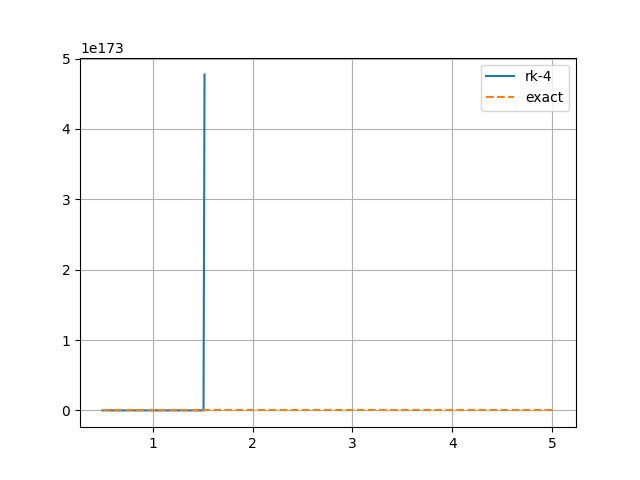
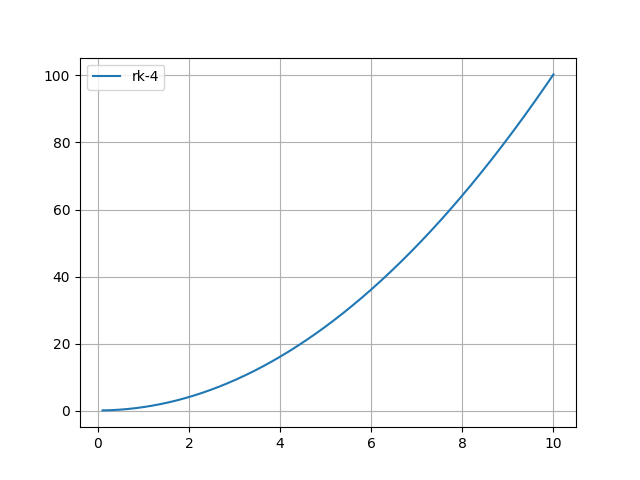
tested few different functions with rk and they work

diff --git a/rk.py b/rk.py
@@ -2,14 +2,14 @@ import numpy as np
 import matplotlib.pyplot as plt 
 
 step_size = 0.01
-y_0 = 1.0
-t_0 = 0.5 
-t_final = 5.0
+y_0 = 0.1
+t_0 = 0.1 
+t_final = 10
 num_iter = 0 
 
 # dy/dt = y^2 
 def f(t, y):
-    return y*y 
+    return 2*t 
 
 y = [y_0]
 t = [t_0]
@@ -22,18 +22,19 @@ while (t[-1] < t_final):
 
     t_next = t[-1] + step_size
     y_next = y[-1] + step_size / 6 * (k_1 + 2*k_2 + 2*k_3 + k_4)
-    print(f"{t_next}, {y_next}")
+    # print(f"{t_next}, {y_next}")
     t.append(t_next)
     y.append(y_next)
 
     num_iter += 1 
 
-def y_solved(t):
-    return 1.0/(1.5-t)
-t_arr = np.array(t)
+# def y_solved(t):
+#     return 1.0/(1.5-t)
+# t_arr = np.array(t)
 
 plt.plot(t, y, label="rk-4")
-plt.plot(t_arr, y_solved(t_arr), label="exact", linestyle="dashed")
+# plt.plot(t_arr, y_solved(t_arr), label="exact", linestyle="dashed")
 plt.grid()
 plt.legend()
 plt.savefig("./rk.png")
+print(num_iter)
